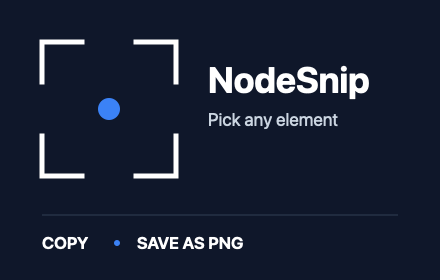
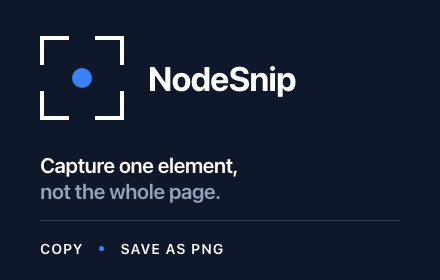
feat: add store marquee and rebuild the promo tile
Adds the optional 1400x560 marquee and replaces the 440x280 tile with a
matched design sharing one set of colour and type tokens.

Sources move from a hand-written SVG to HTML rendered by render.sh, so the
two promo images share _shared.css and flexbox handles spacing instead of
hand-computed text offsets. promo-small.svg is superseded and removed.

The marquee is typographic rather than a product inset: Google's guidance
is that promo images communicate the brand rather than show a screenshot,
and an inset of a real site would put a third party's trademarks into
featured-carousel art.

diff --git a/screenshots/promo-marquee.html b/screenshots/promo-marquee.html
@@ -1,0 +1,40 @@
+<!doctype html>
+<meta charset="utf-8">
+<title>NodeSnip marquee (typographic)</title>
+<link rel="stylesheet" href="_shared.css">
+<style>
+  body { width: 1400px; height: 560px; }
+  .top { position: absolute; left: 100px; right: 100px; top: 110px; display: flex; align-items: center; justify-content: space-between; }
+  .id { display: flex; align-items: center; gap: 44px; }
+  .wordmark { font-size: 66px; }
+  .tagline { margin-top: 12px; font-size: 26px; font-weight: 400; letter-spacing: -0.01em; color: var(--muted); }
+  .lede { font-size: 42px; text-align: right; }
+  .rule { position: absolute; left: 100px; right: 100px; top: 364px; }
+  .labels { position: absolute; left: 100px; right: 100px; top: 414px; justify-content: space-between; font-size: 22px; }
+  .labels i { width: 7px; height: 7px; margin-right: 14px; }
+</style>
+
+<div class="top">
+  <div class="id">
+    <svg width="160" height="160" viewBox="0 0 160 160" aria-hidden="true">
+      <g fill="none" stroke="#ffffff" stroke-width="6" stroke-linecap="square">
+        <path d="M3 51V3h48"/><path d="M109 3h48v48"/><path d="M3 109v48h48"/><path d="M109 157h48v-48"/>
+      </g>
+      <circle cx="80" cy="80" r="16" fill="#3b82f6"/>
+    </svg>
+    <div>
+      <div class="wordmark">NodeSnip</div>
+      <div class="tagline">Pick any element</div>
+    </div>
+  </div>
+  <p class="lede">Capture one element,<br><span>not the whole page.</span></p>
+</div>
+
+<div class="rule"></div>
+
+<div class="labels">
+  <b><i></i>COPY TO CLIPBOARD</b>
+  <b><i></i>SAVE AS PNG</b>
+  <b><i></i>SHIFT TO LOCK</b>
+  <b><i></i>ESC TO CANCEL</b>
+</div>

diff --git a/screenshots/promo-small.html b/screenshots/promo-small.html
@@ -1,0 +1,29 @@
+<!doctype html>
+<meta charset="utf-8">
+<title>NodeSnip promo tile</title>
+<link rel="stylesheet" href="_shared.css">
+<style>
+  body { width: 440px; height: 280px; }
+  .id { position: absolute; left: 40px; top: 36px; display: flex; align-items: center; gap: 24px; }
+  .wordmark { font-size: 34px; }
+  .lede { position: absolute; left: 40px; top: 152px; font-size: 21px; }
+  .rule { position: absolute; left: 40px; right: 40px; top: 220px; }
+  .labels { position: absolute; left: 40px; top: 240px; gap: 16px; font-size: 14px; }
+  .labels i { width: 5px; height: 5px; }
+</style>
+
+<div class="id">
+  <svg width="84" height="84" viewBox="0 0 84 84" aria-hidden="true">
+    <g fill="none" stroke="#ffffff" stroke-width="4" stroke-linecap="square">
+      <path d="M2 27V2h25"/><path d="M57 2h25v25"/><path d="M2 57v25h25"/><path d="M57 82h25V57"/>
+    </g>
+    <circle cx="42" cy="42" r="10" fill="#3b82f6"/>
+  </svg>
+  <div class="wordmark">NodeSnip</div>
+</div>
+
+<p class="lede">Capture one element,<br><span>not the whole page.</span></p>
+
+<div class="rule"></div>
+
+<div class="labels"><b>COPY</b><i></i><b>SAVE AS PNG</b></div>

diff --git a/screenshots/_shared.css b/screenshots/_shared.css
@@ -1,0 +1,25 @@
+:root {
+  --bg: #0f172a;
+  --fg: #ffffff;
+  --muted: #cbd5e1;
+  --dim: #94a3b8;
+  --accent: #3b82f6;
+  --line: #334155;
+  --sans: -apple-system, BlinkMacSystemFont, 'Segoe UI', sans-serif;
+}
+* { margin: 0; padding: 0; box-sizing: border-box; }
+body {
+  position: relative;
+  background: var(--bg);
+  font-family: var(--sans);
+  color: var(--fg);
+  overflow: hidden;
+  -webkit-font-smoothing: antialiased;
+}
+.wordmark { font-weight: 700; letter-spacing: -0.028em; line-height: 1; }
+.lede { font-weight: 600; letter-spacing: -0.02em; line-height: 1.24; text-wrap: balance; }
+.lede span { color: var(--dim); }
+.rule { background: var(--line); height: 1px; }
+.labels { display: flex; align-items: center; font-weight: 600; letter-spacing: 0.075em; }
+.labels b { display: inline-flex; align-items: center; font-weight: 600; white-space: nowrap; }
+.labels i { display: inline-block; border-radius: 50%; background: var(--accent); }
